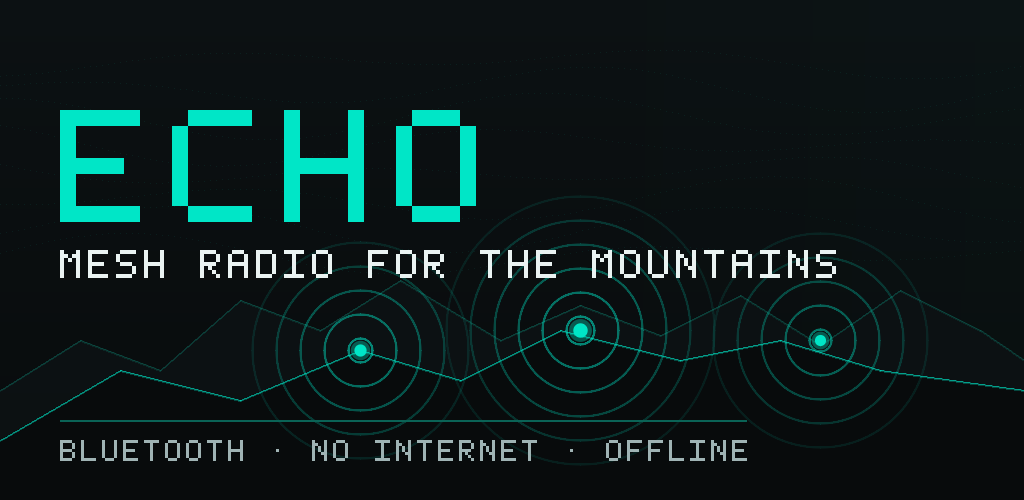
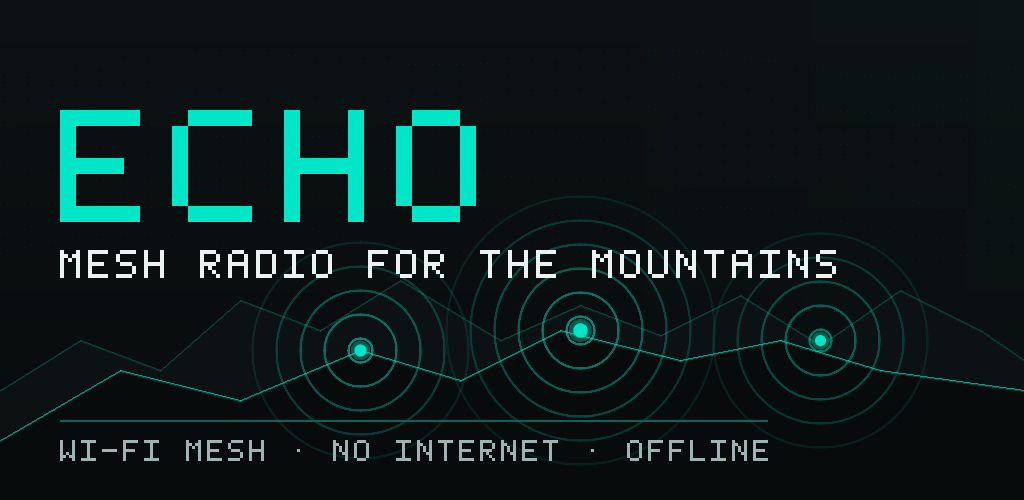
Deprioritize BLE: Wi-Fi mesh is the default, BLE is opt-in fallback
BLE's outdoor range (~10-30 m line-of-sight) is too short for trekking
and convoy use, even with multi-hop relay — the first 50 m gap in the
group breaks the chain. The native BLE GATT modules stay in the code
as an explicit fallback users can enable for emergencies, but it's no
longer in the default path.

Transport selection
- NativeTransport now reads identity.backendPref and resolves it:
    auto      -> ['nearby', 'multipeer']   (no BLE)
    nearby    -> ['nearby']
    multipeer -> ['multipeer']
    ble       -> ['ble']
- Comment in preferOrder() spells out the rationale so the next person
  doesn't quietly add BLE back to the auto list.
- useMesh plumbs identity.backendPref into the constructor.

Settings UI / i18n
- Preferred Backend labels updated in EN + NE:
    AUTO  -> "AUTO · WI-FI MESH (RECOMMENDED)"
    BLE   -> "BLE FALLBACK · SHORT RANGE ~30M"
  Users who pick BLE see the range trade-off at the point of choice.

Privacy policy
- Permissions section now leads with Local Network (iOS) and Nearby
  Wi-Fi (Android). Bluetooth is described as an optional fallback, off
  by default. Encryption section spells out the AES-GCM-256 + PBKDF2
  story from Stage 4.

Store listing copy (en + ne)
- Lead description rewritten: "peer-to-peer Wi-Fi mesh" instead of
  "Bluetooth and Wi-Fi Direct".
- Short Play Store description, keywords, and Nepali translations
  updated to match.
- Apple keywords swap "bluetooth" for "wifi".

Feature graphic
[…]

diff --git a/app/privacy.tsx b/app/privacy.tsx
@@ -8,9 +8,9 @@ import { t, useLocale } from '../src/i18n/strings';
 const SECTIONS_EN: Array<{ h: string; p: string }> = [
   { h: 'What Echo does',         p: 'Echo is a peer-to-peer messenger that runs entirely on the phones in your group. No data goes to any server. Messages, voice, peer presence, and your location only ever travel directly between phones in radio range, or via other phones in the same group that relay for you.' },
   { h: 'What we collect',        p: 'Nothing on a server, because there is no server. Your display name and 2-character sender ID stay on your phone (and are broadcast over the local mesh so peers can see who you are). Messages are stored only on the phones that participate — yours and the people in your group.' },
-  { h: 'Permissions we ask for', p: 'Bluetooth (to find and message nearby phones), Microphone (push-to-talk voice), Location (for the group map and for Android BLE to scan, never sent to any server), Local Network on iOS (Multipeer over Bonjour).' },
+  { h: 'Permissions we ask for', p: 'Local Network on iOS (MultipeerConnectivity over Bonjour). Nearby Wi-Fi devices on Android. Microphone (push-to-talk voice). Location (for the group map). Bluetooth permissions are requested because Echo includes an optional short-range BLE fallback for emergencies — it is off by default and only activates if you explicitly enable it in Settings.' },
   { h: 'Stored on your device',  p: 'Messages are kept for up to 24 hours (text) or 72 hours (SOS) so the app can re-deliver them when peers reconnect. Your identity is kept until you reset Echo from Settings.' },
-  { h: 'Encryption',             p: 'BLE GATT writes use platform-link-layer security where available. MultipeerConnectivity sessions are encrypted by Apple. Nearby Connections is encrypted by Google. Application-layer end-to-end encryption with a shared group key is on the roadmap.' },
+  { h: 'Encryption',             p: 'Every TEXT, SOS, VOICE, and LOCATION frame is end-to-end encrypted with AES-GCM-256, with the key derived from your group join code via PBKDF2-HMAC-SHA256 (100,000 iterations, per-group salt). The mesh transports add platform link-layer security underneath (MultipeerConnectivity by Apple, Nearby Connections by Google).' },
   { h: 'Children',               p: 'Echo is built for adults in outdoor environments. It is not directed at children.' },
   { h: 'Contact',                p: 'Open an issue on the Echo repository to ask a question or report a problem.' },
 ];
@@ -18,9 +18,9 @@ const SECTIONS_EN: Array<{ h: string; p: string }> = [
 const SECTIONS_NE: Array<{ h: string; p: string }> = [
   { h: 'Echo ले के गर्छ',         p: 'Echo एक उपकरण-देखि-उपकरण च्याट हो जुन तपाईंको समूहका फोनहरूमा मात्र चल्छ। कुनै पनि डाटा सर्भरमा जाँदैन। सन्देश, आवाज, र स्थान फोनहरू बीच मात्र यात्रा गर्छन्।' },
   { h: 'हामी के संकलन गर्छौं',    p: 'सर्भरमा केही पनि होइन, किनकि सर्भर छैन। तपाईंको नाम र २-अक्षरको ID तपाईंको फोनमा रहन्छ र समूहका साथीहरूले देख्न मात्र प्रसारण हुन्छ।' },
-  { h: 'अनुमतिहरू',               p: 'ब्लुटुथ (नजिकका फोन भेट्न), माइक्रोफोन (आवाज), स्थान (नक्साको लागि, बाहिर पठाइँदैन), iOS मा स्थानीय नेटवर्क।' },
+  { h: 'अनुमतिहरू',               p: 'iOS मा स्थानीय नेटवर्क (Multipeer), Android मा नजिकका Wi-Fi उपकरण, माइक्रोफोन (आवाज), स्थान (नक्साको लागि)। ब्लुटुथ अनुमति वैकल्पिक छोटो दूरी फलब्याकको लागि मात्र, पूर्वनिर्धारित निष्क्रिय।' },
   { h: 'तपाईंको फोनमा भण्डारित',  p: 'पाठ सन्देश २४ घण्टा, SOS ७२ घण्टा सम्म राखिन्छ ताकि साथीहरू पुनः जोडिँदा सन्देश डेलिभर हुन सक्छ।' },
-  { h: 'एन्क्रिप्शन',              p: 'BLE, Multipeer र Nearby एप्पल/गुगलले प्रदान गरेको लिङ्क-लेयर एन्क्रिप्शन प्रयोग गर्छन्। समूह-कुञ्जी आधारित अन्त्य-देखि-अन्त्य एन्क्रिप्शन रोडम्यापमा छ।' },
+  { h: 'एन्क्रिप्शन',              p: 'प्रत्येक TEXT, SOS, VOICE, र LOCATION फ्रेम AES-GCM-256 ले end-to-end एन्क्रिप्टेड हुन्छ, समूह कोडबाट PBKDF2 मार्फत कुञ्जी व्युत्पन्न।' },
   { h: 'बालबालिका',                p: 'Echo वयस्कहरूको लागि बनाइएको हो र बालबालिकालाई लक्षित गरिएको होइन।' },
   { h: 'सम्पर्क',                  p: 'Echo को रिपोजिटरीमा issue खोलेर सम्पर्क गर्नुहोस्।' },
 ];

diff --git a/src/mesh/NativeTransport.ts b/src/mesh/NativeTransport.ts
@@ -22,6 +22,8 @@ import type {
 import type { CapturedFrame, IncomingFrame } from '../../modules/echo-audio/EchoAudio.types';
 import type { Subscription } from 'expo-modules-core';
 
+type BackendPref = 'auto' | 'nearby' | 'multipeer' | 'ble';
+
 interface NativeMeshModule {
   start(opts: { selfSenderId: string; selfName: string; prefer?: string[] }): Promise<void>;
   stop(): Promise<void>;
@@ -67,6 +69,7 @@ export class NativeTransport implements MeshTransport {
   private subs: Subscription[] = [];
   private selfSenderId: string;
   private selfName: string;
+  private backendPref: BackendPref;
   private currentGroup = 'main';
   private currentVoiceGroup: string | null = null;
 
@@ -81,11 +84,29 @@ export class NativeTransport implements MeshTransport {
   };
   private lastVoice: VoiceActivity = { active: false };
 
-  constructor(self: { senderId: string; name: string }) {
+  constructor(self: { senderId: string; name: string; backendPref?: BackendPref }) {
     this.selfSenderId = self.senderId;
     this.selfName = self.name;
+    this.backendPref = self.backendPref ?? 'auto';
     this.mesh = require('../../modules/echo-mesh') as NativeMeshModule;
     this.audio = require('../../modules/echo-audio') as NativeAudioModule;
+  }
+
+  /**
+   * Backend preference order based on the user's setting. BLE is deliberately
+   * excluded from 'auto' — its outdoor range (~10-30m line-of-sight) is too
+   * short for the trekking / riding use case, and falling back to it would
+   * fragment the group silently. Users who need cross-platform interop can
+   * explicitly opt in via Settings → Preferred Backend → BLE.
+   */
+  private preferOrder(): string[] {
+    switch (this.backendPref) {
+      case 'nearby':    return ['nearby'];
+      case 'multipeer': return ['multipeer'];
+      case 'ble':       return ['ble'];
+      case 'auto':
+      default:          return ['nearby', 'multipeer'];
+    }
   }
 
   start(): void {
@@ -116,7 +137,7 @@ export class NativeTransport implements MeshTransport {
     void this.mesh.start({
       selfSenderId: this.selfSenderId,
       selfName: this.selfName,
-      prefer: ['nearby', 'multipeer', 'ble'],
+      prefer: this.preferOrder(),
     });
   }
 

diff --git a/src/i18n/strings.ts b/src/i18n/strings.ts
@@ -100,10 +100,10 @@ const EN: Strings = {
   'settings.id':          'SENDER ID',
   'settings.mode':        'DEFAULT MODE',
   'settings.backend':     'PREFERRED BACKEND',
-  'settings.backend.auto':      'AUTO',
-  'settings.backend.nearby':    'NEARBY (ANDROID)',
-  'settings.backend.multipeer': 'MULTIPEER (IOS)',
-  'settings.backend.ble':       'BLE (CROSS-PLATFORM)',
+  'settings.backend.auto':      'AUTO · WI-FI MESH (RECOMMENDED)',
+  'settings.backend.nearby':    'NEARBY (ANDROID · WI-FI)',
+  'settings.backend.multipeer': 'MULTIPEER (IOS · WI-FI)',
+  'settings.backend.ble':       'BLE FALLBACK · SHORT RANGE ~30M',
   'settings.language':    'LANGUAGE',
   'settings.location':    'SHARE LOCATION',
   'settings.location.body': 'Broadcast your GPS coords to your group as encrypted LOCATION frames. Off by default.',
@@ -203,10 +203,10 @@ const NE: Strings = {
   'settings.id':          'पठाउने ID',
   'settings.mode':        'पूर्वनिर्धारित मोड',
   'settings.backend':     'रुचाइएको ब्याकेन्ड',
-  'settings.backend.auto':      'स्वतः',
-  'settings.backend.nearby':    'NEARBY (एन्ड्रोइड)',
-  'settings.backend.multipeer': 'MULTIPEER (IOS)',
-  'settings.backend.ble':       'BLE (दुवै)',
+  'settings.backend.auto':      'स्वतः · वाई-फाई मेस (सिफारिस)',
+  'settings.backend.nearby':    'NEARBY (एन्ड्रोइड · वाई-फाई)',
+  'settings.backend.multipeer': 'MULTIPEER (IOS · वाई-फाई)',
+  'settings.backend.ble':       'BLE फलब्याक · छोटो दूरी ~३० मि',
   'settings.language':    'भाषा',
   'settings.location':    'स्थान साझेदारी',
   'settings.location.body': 'समूहलाई आफ्नो GPS निर्देशांक एन्क्रिप्टेड LOCATION फ्रेममा प्रसारण गर्नुहोस्। पूर्वनिर्धारित: निष्क्रिय।',

diff --git a/src/mesh/useMesh.ts b/src/mesh/useMesh.ts
@@ -39,7 +39,11 @@ function pickTransport(id: Identity): MeshTransport {
 
   try {
     const mod = require('./NativeTransport') as typeof import('./NativeTransport');
-    return new mod.NativeTransport({ senderId: id.senderId, name: id.name });
+    return new mod.NativeTransport({
+      senderId: id.senderId,
+      name: id.name,
+      backendPref: id.backendPref,
+    });
   } catch (e) {
     if (__DEV__) {
       console.warn('[echo] NativeTransport unavailable, falling back to mock:', e);

diff --git a/store/copy/listing.en.md b/store/copy/listing.en.md
@@ -4,7 +4,7 @@
 Group radio that needs no signal
 
 ## Short description (80 chars, Play Store)
-Offline mesh messenger for trekkers and riders — no cell, no Wi-Fi, no servers.
+Offline Wi-Fi mesh messenger for trekkers and riders — no cell, no servers.
 
 ## Promo text (170 chars)
 Stay in touch with your trekking or riding group when there's no signal. Echo turns the phones in your group into a self-organising radio network — text, voice, SOS.
@@ -13,7 +13,7 @@ Stay in touch with your trekking or riding group when there's no signal. Echo tu
 
 There's no cell tower at 4,500 metres. There's nothing on the wrong side of a mountain pass. There's no Wi-Fi when you're on the move. Echo doesn't need any of that.
 
-Echo turns the phones in your group into a peer-to-peer radio network. Messages, voice, and SOS travel directly between phones over Bluetooth and Wi-Fi Direct, or hop between phones in your group to reach someone out of direct range. No servers, no internet, no SIM.
+Echo turns the phones in your group into a peer-to-peer Wi-Fi mesh. Messages, voice, and SOS travel directly between phones over short-range Wi-Fi — Google Nearby Connections on Android, MultipeerConnectivity on iOS — or hop between phones in your group to reach someone out of direct range. No servers, no internet, no SIM.
 
 Built for:
 • Trekkers on multi-day routes in the Annapurnas, Langtang, Everest region
@@ -43,7 +43,7 @@ Power:
 Echo is in active development. Field reports welcome at the project page.
 
 ## Keywords (Apple, 100 chars total)
-mesh, offline, trekking, bluetooth, walkie talkie, sos, ptt, nepal, hiking, motorcycle
+mesh, offline, trekking, wifi, walkie talkie, sos, ptt, nepal, hiking, motorcycle
 
 ## What's New (release notes seed)
 First public release of Echo:

diff --git a/docs/STAGE4.md b/docs/STAGE4.md
@@ -67,10 +67,23 @@ guard, and a store submission kit.
 - Real-device captures are documented in `store/README.md` for the
   ongoing store-page lifecycle.
 
+## Transport selection (Stage 4 revision)
+
+BLE was originally listed alongside Nearby Connections and MultipeerConnectivity in the Stage 1 spec, but its outdoor range (~10-30 m line-of-sight) is too short for the trekking and motorcycle-convoy use cases this app is built for. The native code remains as an opt-in fallback for emergencies, but:
+
+- `identity.backendPref` defaults to `auto`.
+- `auto` resolves to `prefer = ['nearby', 'multipeer']` — **no BLE by default**.
+- BLE is selected only when the user explicitly picks "BLE FALLBACK · SHORT RANGE ~30M" in Settings → Preferred Backend.
+- Same-platform mesh works out of the box: Android↔Android via Nearby Connections (Wi-Fi-mediated, ~100-200 m); iOS↔iOS via MultipeerConnectivity (Wi-Fi peer-to-peer, similar range).
+- Android↔iOS interop is the open trade-off — only possible today by opting both sides into BLE, with the range cost. A future Wi-Fi hotspot pattern (one phone hosts an AP that the others join) would solve this without BLE.
+
 ## What's still TODO
 
 - iOS Opus codec — Stage 2 documented the libopus pod vs. AudioConverter
   trade-off; still not wired.
+- Cross-platform interop without BLE — Wi-Fi hotspot pattern is the
+  candidate; needs UI for picking a host and acknowledging that hosting
+  costs the host's cellular data.
 - BLE chunking for VOICE frames over MTU — current cap is ~500 bytes,
   fine for TEXT/SOS, voice fragments need reassembly.
 - Real-device build / on-device QA — none of the Stage 2-4 native code
